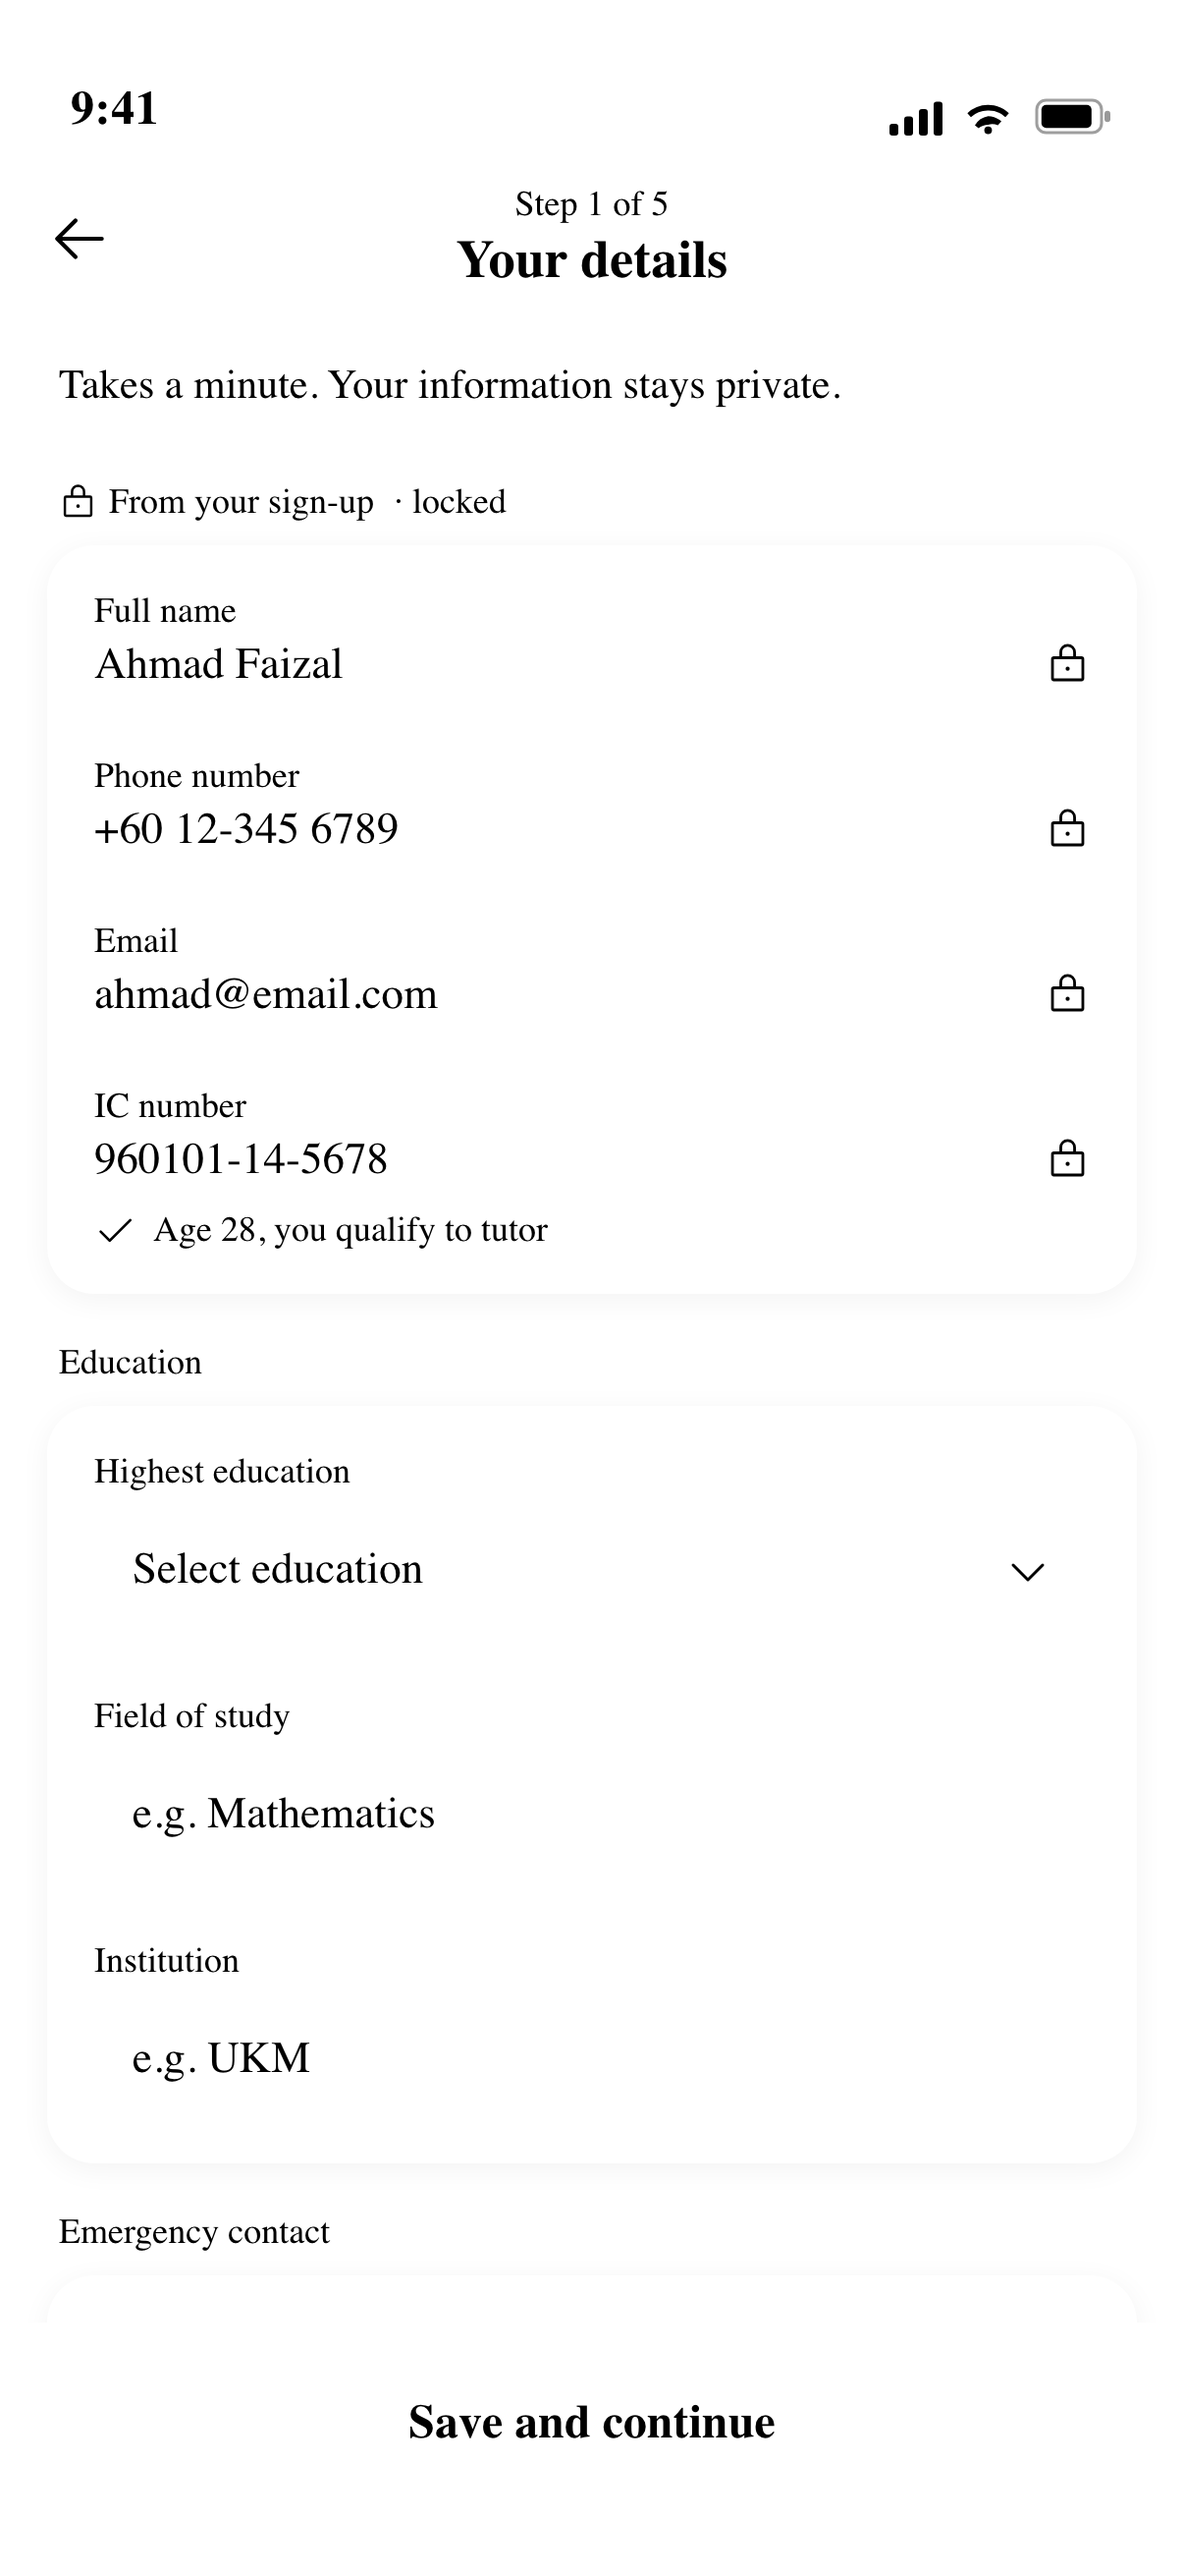
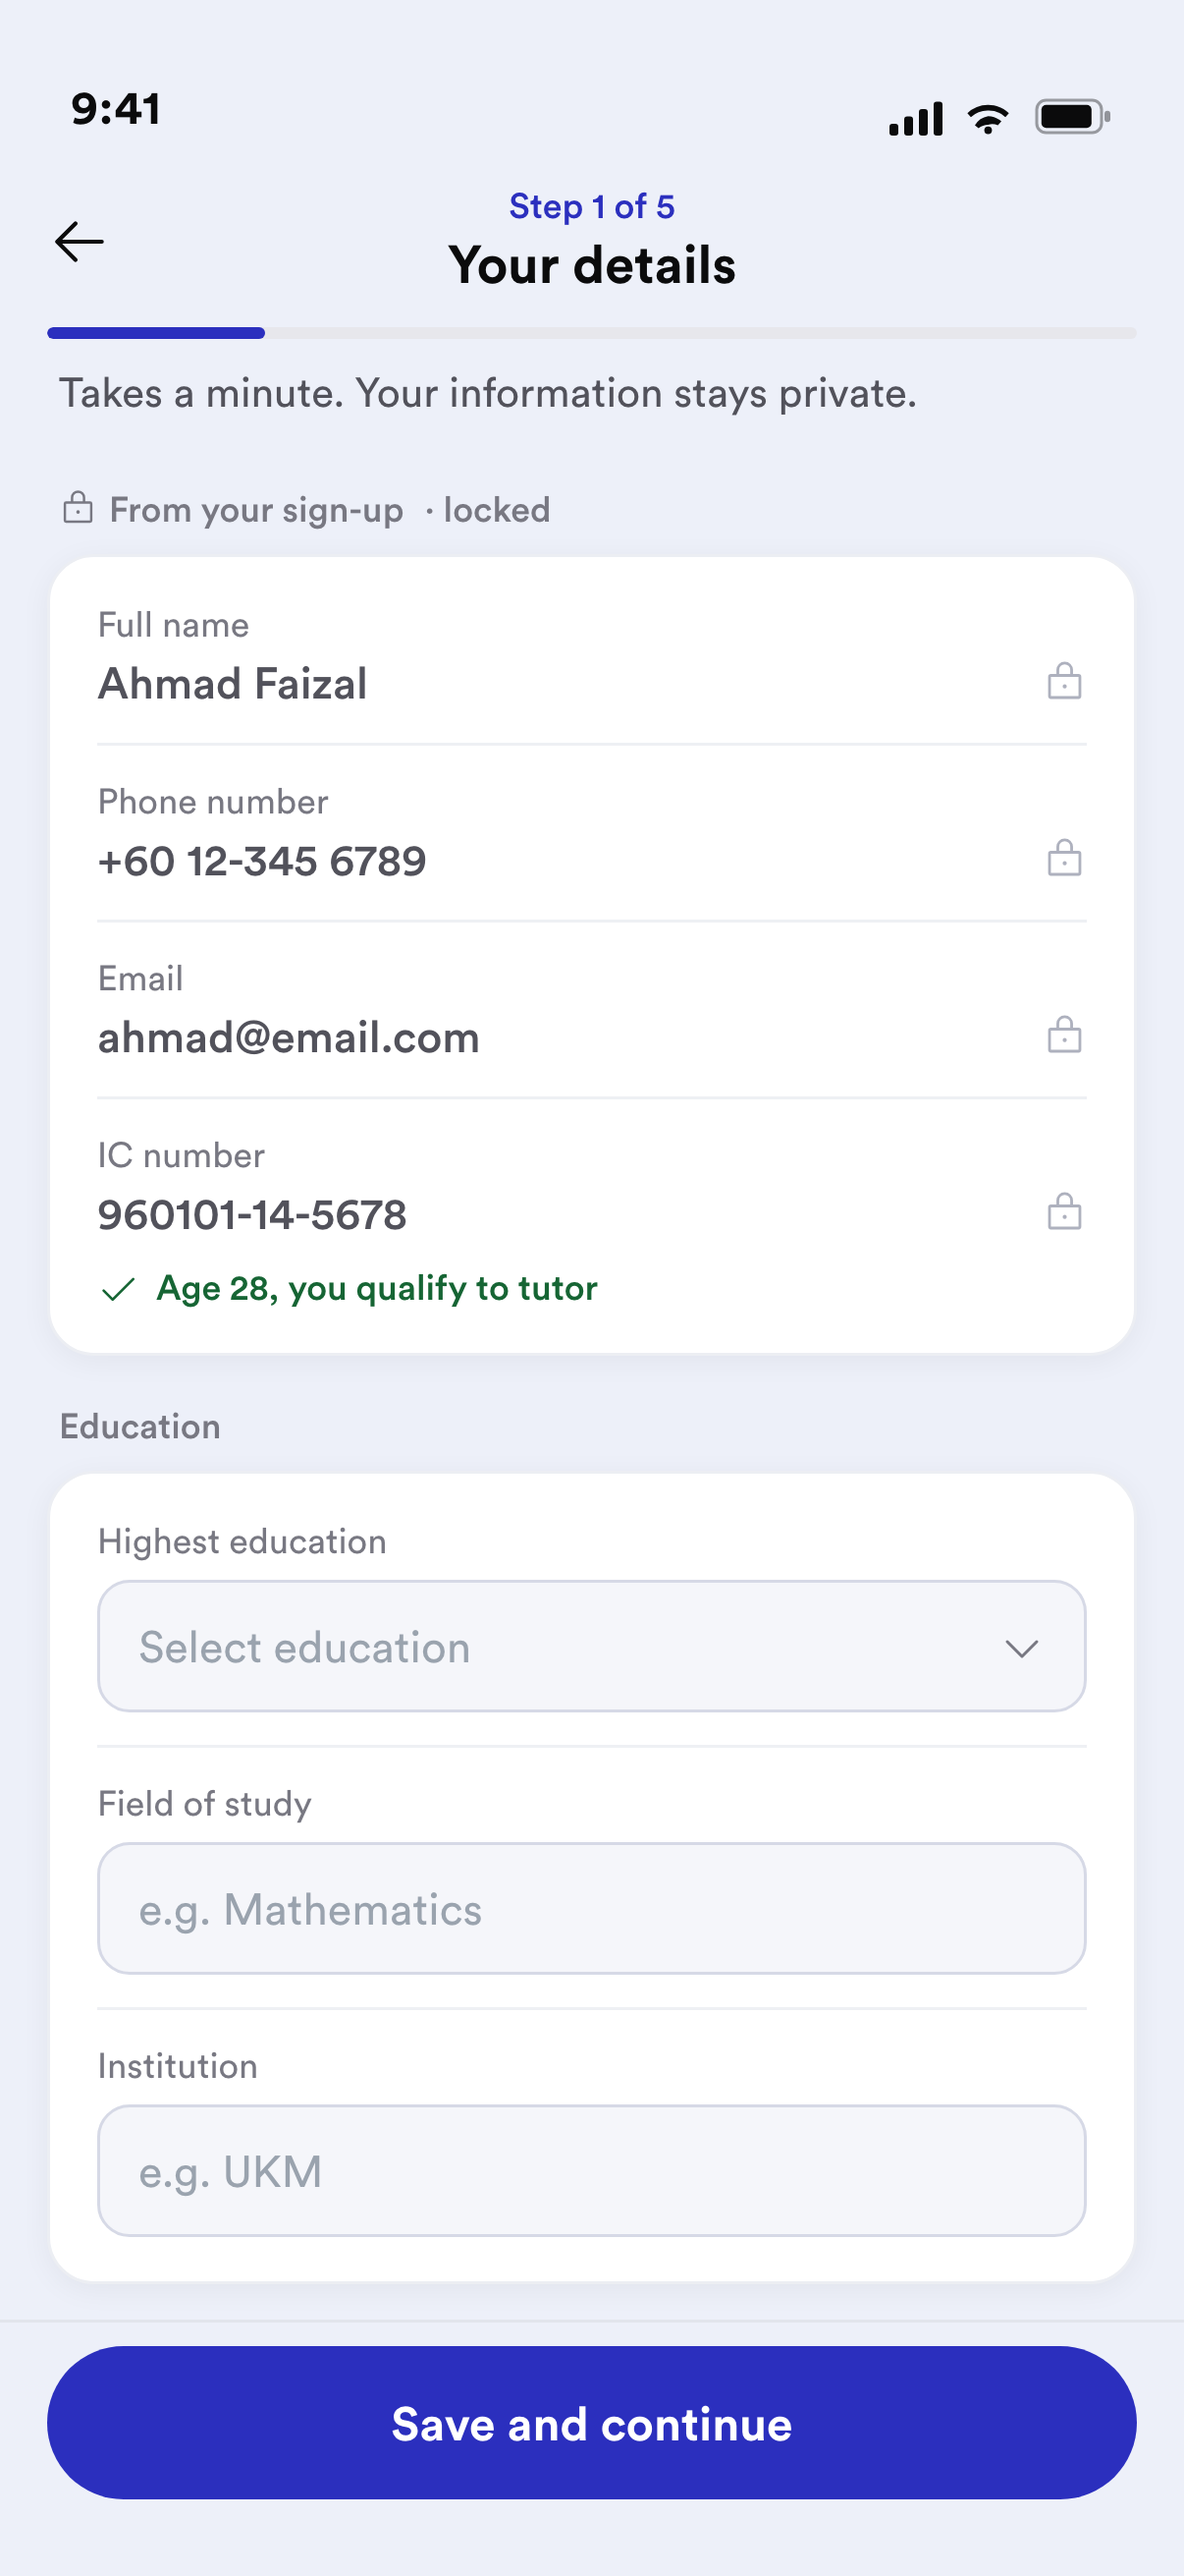
fix(publish): ship tokens.css, and gate captures on real font loading
ROOT CAUSE of the wrong-font screens on the gallery: the publish pipeline never
copied tokens.css into the clone. Screens migrated to the shared token source
link it externally, so var(--font) resolved to nothing and Chrome painted a
FALLBACK SERIF. It broke more than type: on onboarding the primary CTA rendered
invisible and the inverse text went black, because every token was undefined.

Affected and now corrected (the 5 screens that link tokens.css):
  acquire-OnBoarding, --slide-2, --slide-3
  activate-VerifyDetails, --icrange
Audited by re-capturing all 232 and diffing: exactly 5 font-broken, 5 others
changed only by this pass's copy edits. No other screen was affected.

compare-shoot.mjs now FORCES every declared @font-face to load, waits on
document.fonts.ready, verifies each face reports 'loaded', and exits non-zero
naming any file that would ship in a fallback face. Previously it waited on
readyState plus a fixed 700ms and shipped wrong-font shots silently.

Also carries the last copy fixes: "Didn't get it?", "couldn't be found".

diff --git a/tokens.css b/tokens.css
@@ -1,0 +1,167 @@
+/* PUBLISHED COPY — do not edit. Source: packages/design-system/tokens.css. Run: npm run publish:tokens */
+/* ============================================================================
+   Sifututor design system, THE SINGLE TOKEN SOURCE (light)
+   ----------------------------------------------------------------------------
+   This file is the distribution mechanism. Every mock and screen links it and
+   reads its values through var(--token). NOTHING re-declares these locally.
+
+   Rule: a screen may use var(--x). A screen may NOT invent a raw hex, px size,
+   shadow, or radius. If a value you need is not here, it gets ADDED here first,
+   then consumed, never inlined in a screen.
+
+   Grounded in: the blessed brand hex (#2B2FBE, founder 2026-07-23), the four
+   approved kit screens (profilehub / tutorrequests / classschedule /
+   studentsdetails), the app's locked type scale (sifututor_tutor
+   constant/tokens.ts textStyles), and the two-tier radius law.
+
+   Values marked  ⚠ GATE  await the founder distribution-stage sign-off, see
+   02-architecture/distribution-mechanism-and-token-consolidation-2026-07-23.md
+   ========================================================================== */
+
+:root {
+
+  /* ── BRAND ──────────────────────────────────────────────────────────────
+     One indigo. Blessed 2026-07-23 (#2B2FBE won on least-churn vs 357 mocks,
+     over spec #243cb3 and live #3b4ee2). This is THE brand hex. */
+  --brand:            #2B2FBE;   /* solid indigo: primary CTA fill, active states, focus */
+  --brand-ink:        #2B2FBE;   /* indigo used as a foreground (icon/label on light) */
+  --on-brand:         #FFFFFF;              /* text/icon ON a solid-brand fill */
+  --on-brand-2:       rgba(255,255,255,.92);/* inverse SECONDARY text on a brand bg (promotional register) */
+  --on-brand-3:       rgba(255,255,255,.68);/* inverse TERTIARY text on a brand bg (promotional register) */
+  /* on-brand-2/3 added 2026-07-28 during the onboarding (promotional) migration — promoted from the
+     approved onboarding-kit; the brand-forward promotional register needs inverse text steps. */
+  /* NOTE: a darker #2A37A8 ("brand-strong") was proposed during the studentsdetails migration,
+     then COLLAPSED to --brand 23-Jul: contrast test = 8.01:1 on the pale tint (WCAG large-text
+     threshold 3:1), so the darker shade earned no legibility. The 153× corpus recurrence was
+     systematic drift from #2B2FBE, not a deliberate shade. Use --brand for monograms on tint. */
+
+  /* ── BRAND TINTS, the ambiguity fix ────────────────────────────────────
+     The old single --tint meant BOTH a pale wash (180 files) AND solid indigo
+     (46 files). Split so the two can never be confused again:
+       --surface-brand = a pale indigo BACKGROUND (chips, selected rows, wells)
+       --fill-brand    = a solid indigo FILL (== --brand; use for emphasis fills)
+     A pale pill uses --surface-brand; a solid pill uses --fill-brand. */
+  --surface-brand:        #EBEDFB;   /* pale indigo wash background */
+  --surface-brand-strong: #E7EAFB;   /* the request/pill wash (was --pill) */
+  --surface-brand-avatar: #EAEEFC;   /* avatar/identity tint (was --avitint) */
+  --fill-brand:           #2B2FBE;   /* solid indigo fill (alias of --brand) */
+
+  /* ── CANVAS & SURFACES ──────────────────────────────────────────────────
+     Depth model is FLAT-BY-DESIGN. Hierarchy comes from surface contrast +
+     the border ladder below, NOT from shadow. Shadow is reserved for true
+     overlays only (see --shadow-overlay). */
+  --canvas:      #EDF0F9;   /* app background (shipped dominant, 232 files) */
+  --card:        #FFFFFF;   /* raised content surface */
+  --field:       #F5F6FA;   /* input well / inset field */
+
+  /* FORM FIELD STATES — added 2026-07-28 during the verify-details (Form register) migration.
+     Values PROMOTED from the approved verify-details-kit (not invented); the base ink ramp did not
+     cover a form's field affordances. Bind every form screen. ⚠ names/values need UX-chat/token-pass
+     confirmation (like --comms was) since they govern all forms. */
+  --field-line:        #D6D9E6;   /* input border / underline */
+  --field-placeholder: #9AA3AE;   /* placeholder text */
+  --field-icon:        #AEB1BE;   /* grey field-affordance icon (chevron, etc.) */
+  --field-disabled:    #C3C5E6;   /* disabled field fill */
+
+  /* ── BORDER / HAIRLINE LADDER, the depth device "flat" left unspecified ──
+     Three weights. This is what replaces shadow: a crisp edge makes a flat
+     card read as raised against the canvas. Faint → strong:
+       --hair        row dividers inside a card (faintest)
+       --card-edge   the 1px border around a card (defines the card)
+       --hair-strong section separation / stronger rule */
+  --hair:        #EEF0F4;
+  --card-edge:   #ECEEF3;
+  --hair-strong: #E2E5EC;
+
+  /* ── INK RAMP (text) ────────────────────────────────────────────────────
+     Four steps, shipped-canonical. */
+  --ink:    #0B0B0C;   /* primary text / headings */
+  --ink-2:  #52525B;   /* secondary text */
+  --ink-3:  #787882;   /* meta / captions / placeholder-ish */
+  --ink-4:  #8A8A8F;   /* tab-inactive / faint meta */
+
+  /* ── SEMANTIC STATUS, colour EARNS meaning (see grammar book L3) ─────────
+     green = success/valid/online · amber = caution · red = validation error +
+     irreversible destructive ONLY. Never decorative. Each ships bg + ink. */
+  --success:      #16A34A;
+  --success-ink:  #166534;
+  --success-bg:   #E4F3E9;
+
+  --caution:      #B45309;   /* amber text is dark for contrast */
+  --caution-ink:  #92400E;
+  --caution-bg:   #FBF0D9;
+
+  --danger:       #E11D48;   /* crimson, FOUNDER-BLESSED 2026-07-23 (over iOS #FF3B30 / rebuild #F14336). Validation error + irreversible destructive ONLY */
+  --danger-on:    #FFFFFF;
+
+  /* neutral fills */
+  --track:        #E7E7EC;   /* progress track / segmented track */
+  --badge-off:    #B4B4BC;   /* inactive badge */
+
+  /* comms affordance — an external BRAND mark, NOT a semantic state. Founder-ruled 2026-07-28:
+     the WhatsApp button is OUTLINE (like Call/Directions); only its ICON carries this green, so a
+     contact affordance never borrows --success (which MEANS valid/online/done). Icon-only, never a fill. */
+  --comms-whatsapp: #25D366;   /* actual WhatsApp brand green */
+
+  /* ── TYPE ───────────────────────────────────────────────────────────────
+     Locked scale from the app (sifututor_tutor textStyles). 7 sizes only.
+     The 49 mock sizes (incl. 8 half-pixel) collapse to these. */
+  --font: 'Circular Std', -apple-system, 'SF Pro Text', system-ui, sans-serif;
+
+  --w-book:   400;   /* Circular Std Book */
+  --w-medium: 500;   /* Circular Std Medium, app "semibold" (600, a banned phantom weight) maps HERE per the type law, nearest legal weight is 500 (derived from the law, not a founder ruling) */
+  --w-bold:   700;   /* Circular Std Bold */
+
+  --fs-xs:  12px;  --lh-xs:  18px;   /* bodySmall / caption */
+  --fs-sm:  14px;  --lh-sm:  20px;   /* bodyMedium / label */
+  --fs-base:16px;  --lh-base:24px;   /* bodyLarge / titleMedium */
+  --fs-lg:  18px;  --lh-lg:  26px;   /* headlineSmall / pushed-header title / button */
+  --fs-xl:  20px;  --lh-xl:  28px;   /* headlineMedium */
+  --fs-2xl: 24px;  --lh-2xl: 32px;   /* displayMedium */
+  --fs-3xl: 30px;  --lh-3xl: 40px;   /* displayLarge / root large-title / currency */
+
+  /* ── SPACING, 4/8 grid (app Space) ─────────────────────────────────────── */
+  --s-1:  2px;  --s-2:  4px;  --s-3:  8px;  --s-4:  12px; --s-5: 16px;
+  --s-6: 20px;  --s-7: 24px;  --s-8: 32px;  --s-9: 40px;  --s-10:48px;
+  --screen-pad: 16px;
+  --hit-min:    44px;   /* HIG minimum tap target */
+
+  /* ── RADIUS, two-tier law ──────────────────────────────────────────────
+     surfaces = 16 · controls = pill · skeleton = 6 (exempt). Intermediate
+     steps kept for compact <80px tiles. */
+  --r-surface: 16px;   /* cards, sheets, wells */
+  --r-tile:    12px;   /* compact tiles <80px */
+  --r-control: 9999px; /* buttons, pills, chips, segmented, FAB */
+  --r-skeleton: 6px;   /* loading skeleton (the ONE exempt radius) */
+
+  /* ── ELEVATION, reserved for TRUE overlays only ────────────────────────
+     Cards do NOT use these; they rely on --card-edge + canvas contrast.
+     One raised token for sheets/menus/toasts that genuinely float. */
+  --shadow-overlay: 0 8px 30px rgba(0,0,0,.16);   /* bottom sheet, menu, toast */
+  --shadow-sheet:   0 -2px 12px rgba(0,0,0,.10);  /* pinned bottom bar / sheet lip */
+  --shadow-cta:     0 6px 18px rgba(43,47,190,.34);/* PROMOTIONAL-register CTA glow ONLY (ruled 2026-07-28: KEEP,
+     scoped). Depth varies per register — promotional may glow; utility/record/form CTAs stay flat (flat-by-design
+     + calm-the-glow hold there). NEVER use --shadow-cta on a non-promotional CTA. See grammar-book Part 4. */
+
+  /* ── MOTION ─────────────────────────────────────────────────────────────
+     ⚠ GATE: durations from the app (200/300/400); easing curves are a
+     grammar-book deliverable, placeholders below pending that pass. */
+  --dur-fast: 200ms;  --dur-base: 300ms;  --dur-slow: 400ms;
+  --ease-standard: cubic-bezier(0.2, 0, 0, 1);   /* provisional */
+
+  /* ── ICON ───────────────────────────────────────────────────────────────
+     Source = shipped Phosphor set at viewBox 0 0 256 256, flat fill.
+     _icon-kit.html (Solar duotone) is NOT the source, do not cite it. */
+  --icon-sm: 16px;  --icon-md: 20px;  --icon-lg: 24px;
+}
+
+/* ── DARK, STRUCTURE ONLY, not a completed pass ───────────────────────────
+   ⚠ GATE: dark mode is a later foundation deliverable (58/410 mocks, forked).
+   This block exists so the mechanism supports dark; values are placeholders
+   and must NOT be treated as canonical. Do not migrate screens to dark yet. */
+[data-theme="dark"] {
+  --canvas: #000000;
+  --card:   #1C1C1E;
+  --ink:    #FFFFFF;
+  --brand:  #6064E6;   /* provisional bright indigo */
+}

diff --git a/verifycode-kit--error.html b/verifycode-kit--error.html
@@ -55,7 +55,7 @@ body{font-family:var(--font);background:var(--canvas)}
   <div class="lead">Enter the 5-digit code we sent to <b>+60 12-345 6789</b>.</div>
   <div class="otp"><div class="cell err">1</div><div class="cell err">2</div><div class="cell err">3</div><div class="cell err">4</div><div class="cell err">5</div></div>
   <div class="err"><svg viewBox="0 0 256 256"><path fill="#E11D48" d="M128 24a104 104 0 1 0 104 104A104.11 104.11 0 0 0 128 24m-8 56a8 8 0 0 1 16 0v56a8 8 0 0 1-16 0Zm8 104a12 12 0 1 1 12-12 12 12 0 0 1-12 12"/></svg>That code isn’t right. Check it or resend a new one.</div>
-  <div class="resend">Did not get it? <span class="go">Resend code</span></div>
+  <div class="resend">Didn&rsquo;t get it? <span class="go">Resend code</span></div>
   <div class="edit">Wrong number?<span class="lnk">Edit</span></div>
  </div>
   <div class="ctadock"><div class="btn">Verify</div><div class="homebar"></div></div>

diff --git a/classdetail-kit--notfound.html b/classdetail-kit--notfound.html
@@ -36,7 +36,7 @@ body{font-family:var(--font);background:var(--surface)}
  <div class="empty">
   <div class="eic"><svg viewBox="0 0 256 256" fill="none" stroke="currentColor" stroke-width="14" stroke-linecap="round" stroke-linejoin="round"><rect x="40" y="40" width="176" height="176" rx="12"/><path d="M176 24v32M80 24v32M40 96h176M100 148l56 56M156 148l-56 56"/></svg></div>
   <div class="etitle">This class isn&rsquo;t available</div>
-  <div class="ebody">The class record could not be found. It may have been removed or the link is out of date.</div>
+  <div class="ebody">The class record couldn&rsquo;t be found. It may have been removed or the link is out of date.</div>
  </div>
  <div class="ctadock"><div class="btn">Back to class records</div><div class="homebar"></div></div>
 </div>

diff --git a/verifycode-kit--resend.html b/verifycode-kit--resend.html
@@ -54,7 +54,7 @@ body{font-family:var(--font);background:var(--canvas)}
  <div class="body">
   <div class="lead">Enter the 5-digit code we sent to <b>+60 12-345 6789</b>.</div>
   <div class="otp"><div class="cell on"><span class="caret"></span></div><div class="cell"></div><div class="cell"></div><div class="cell"></div><div class="cell"></div></div>
-  <div class="resend">Did not get it? <span class="go">Resend code</span></div>
+  <div class="resend">Didn&rsquo;t get it? <span class="go">Resend code</span></div>
   <div class="edit">Wrong number?<span class="lnk">Edit</span></div>
  </div>
   <div class="ctadock"><div class="btn dis">Verify</div><div class="homebar"></div></div>
